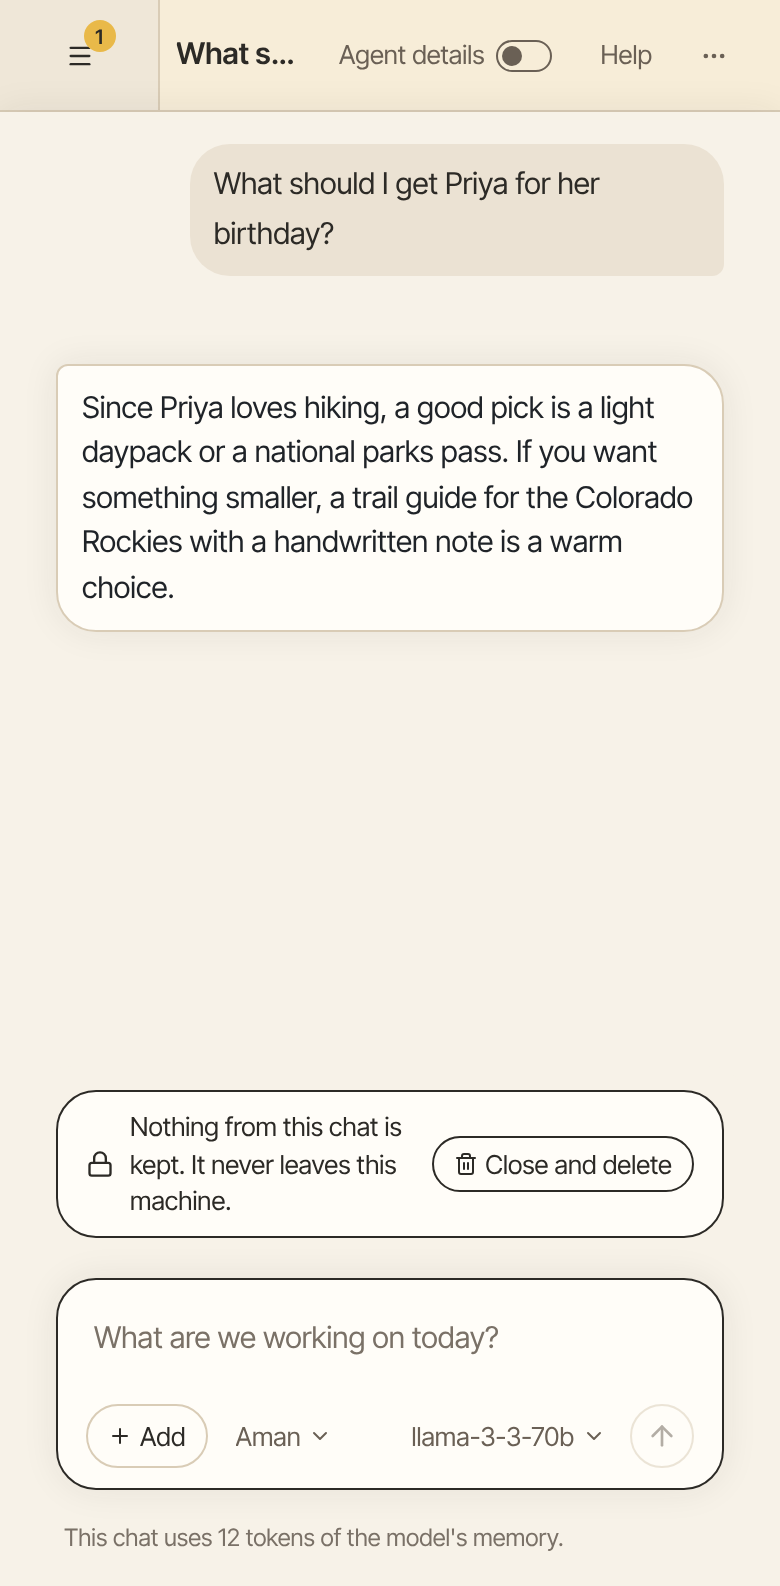
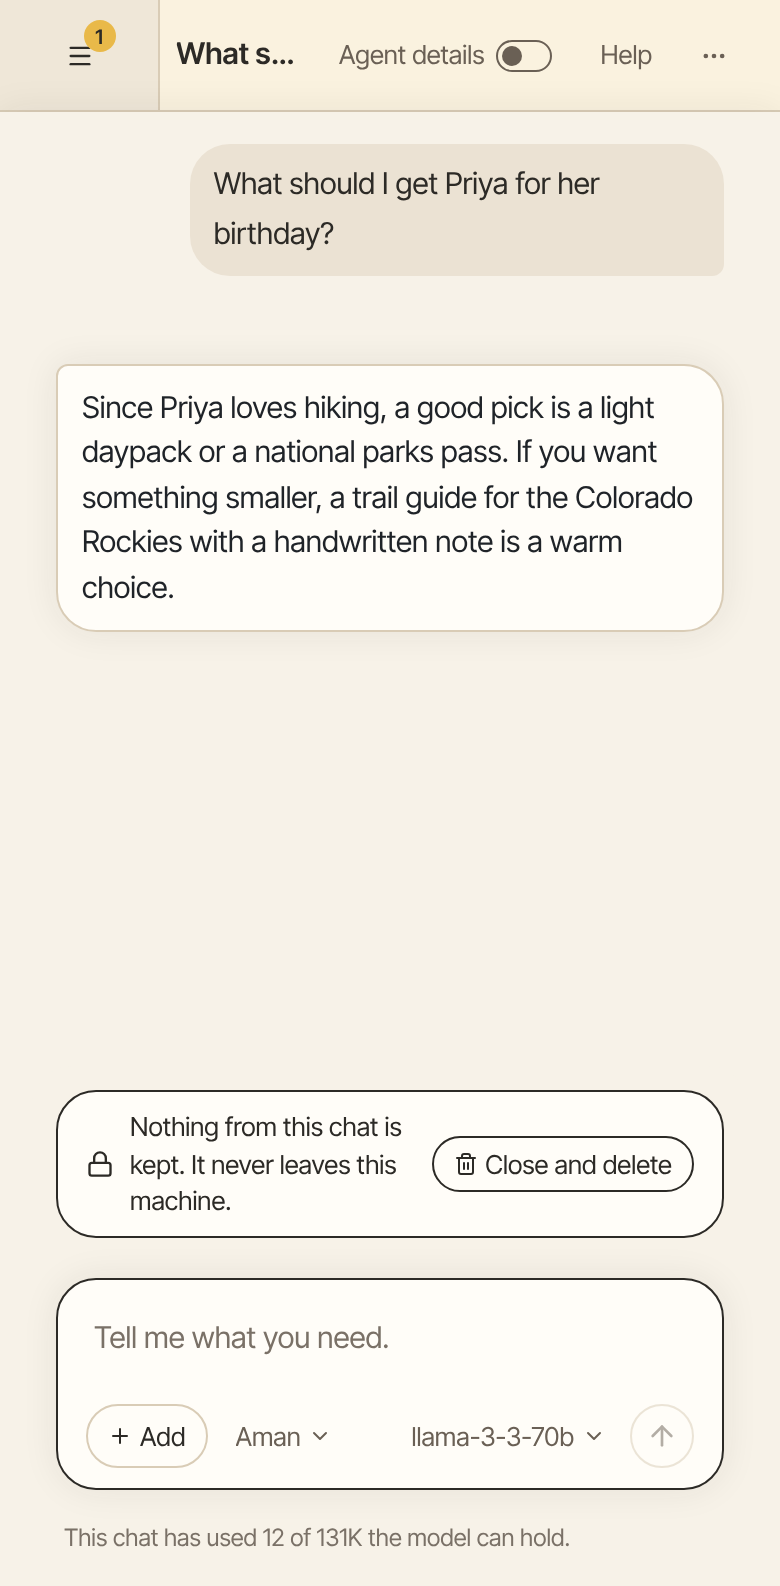
Show how much the model can hold in the chat size line (#1011)
The line under the message box now finds how much the chat's model can hold from the model list, so it reads like "This chat has used 12K of 128K the model can hold." When the limit is unknown, it says "tokens" after the number.

Changed region(s): [[0.2154, 0.9578, 0.7385, 0.9887], [0.1231, 0.8342, 0.6462, 0.8651]]

diff --git a/packages/trueforge/src/personas/amanGuide/knowledgePack.generated.ts b/packages/trueforge/src/personas/amanGuide/knowledgePack.generated.ts
@@ -42,7 +42,7 @@ export const AMAN_GUIDE_TOPICS: readonly AmanGuideTopic[] = [
     id: 'chats',
     title: 'Chats',
     covers: ['route:session', 'route:turn', 'route:chatSearch', 'route:sessionFolder'],
-    body: 'Each conversation with Aman is a chat. Aman keeps your chats in a list, so you can come back to one, search for it or sort it into a folder.\n\nHow to get there: Click **Chats** in the left bar. On a phone, tap the menu button at the top left first.\n\n=== "Computer"\n\n    ![The chat list with folders, next to an open chat](../../../../docs/screenshots/app/chats-list-desktop.png)\n\n=== "Phone"\n\n    ![The chat list with folders, opened from the menu button](../../../../docs/screenshots/app/chats-list-phone.png)\n\n## How a chat looks\n\nYour messages sit on the right in a soft tinted bubble. Aman\'s written replies sit on the left on a paper card. A card that asks you something, such as whether to allow an action, stands on its own so it is easy to spot.\n\nTo copy a reply or hear it read aloud, move the pointer over it and use the small buttons under the card.\n\n## Start a chat\n\n1. Click **New chat** at the top of the chat list.\n2. Type your message in the message box.\n3. Press ++enter++ or click **Send message**, the arrow at the end of the box.\n\nTo start a new line without sending, press ++shift+enter++. To stop an answer part way, click the square button where the arrow was, or press ++esc++.\n\n## The message box\n\nThe row under the message box holds everything you can add to a message:\n\n- **Add** attaches files and pictures, pastes from your clipboard and turns add-ons on or off. See [Files and pictures](files.md).\n- The name beside **Add** says who answers this chat. It shows once you have made a persona. See [Personas](personas.md).\n- **Start incognito chat** shows only on a new chat, before your first message. See [Incognito chat](incognito.md).\n- The model name at the right end says which model answers. See "Pick the model" below.\n- The microphone and the sound-wave button let you talk instead of type. See [Talk to Aman](voice.md).\n\nA small line under the message box says how much room the chat has taken, such as "This chat has used 72K of 128K the model can hold." The numbers count tokens, which are small pieces of words. When the chat fills up, Aman shortens its older messages.\n\n## Pick the model\n\n1. Click the model name at the right end of the message box. Its tip says "Select model".\n2. Type in the search box to find a model, or scroll the list.\n3. Click the model you want.\n\nSome models also show "Reasoning effort" at the bottom of the list. Pick a higher effort for a harder question; the answer takes longer.\n\nThe model name is hidden while Aman is answering. A new chat starts with the model you picked last in this browser. If the list is empty, add a model first. See [Set up Aman](first-steps.md).\n\n## Find a chat\n\nThe newest chats are at the top, under "Today" and "Earlier". Click **Show more** to see older ones. A chat with something new for you, such as a reminder, shows in bold until you open it.\n\nTo search:\n\n1. Click the magnifying glass next to **Chats** at the top of the list. Its tip says "Search chats".\n2. Type a few words.\n3. Chats whose titles match show first. Under "In messages", Aman lists other chats with all your words in their messages.\n4. Click a chat to open it.\n\nSearching inside messages needs past-chat search. To turn it on, click **More** in the left bar, then **Settings**, then **Memory**, and turn on "Let Aman search your past chats when you ask".\n\n## Rename a chat\n\n1. Click the chat\'s title at the top of the open chat.\n2. Type the new title.\n3. Press ++enter++ to save, or ++esc++ to keep the old one.\n\nYou can also point at the chat in the list, click the three dots next to it, then click **Rename**.\n\n## Put chats in folders\n\n1. Click the plus next to "Folders" at the top of the chat list. Its tip says "New folder".\n2. Type a name for the folder.\n3. Click **Create**.\n4. To file a chat, point at it in the list, click the three dots next to it, then click **Move to folder**.\n5. Click the folder.\n\nThe **Move to folder** box can also make a new folder on the spot. To take a chat out of its folder, choose **No folder**.\n\nTo rename or remove a folder, point at it and click its three dots. On a phone the three dots always show. Change the name and click **Rename**, or click **Delete folder**. Deleting a folder keeps every chat that was in it.\n\nOn a computer, the number next to a folder is how many chats are in it.\n\n## Delete a chat\n\n1. Point at the chat in the list and click the three dots next to it.\n2. Click **Delete**.\n3. Click **Delete** again to confirm, or **Keep** to change your mind.\n\n!!! warning\n\n    A deleted chat is gone for good, with every message, picture and file in it. It cannot be brought back.\n\n## Clear a chat\n\nTo start over with the same model and add-ons, click the three dots at the top right of the chat, then **Clear chat**. You get an empty chat. The old one stays in your list.\n\n## Agent details\n\nThe **Agent details** switch at the top of a chat shows or hides how Aman worked on each answer. On a small phone it says "Details".\n\n- On: each answer shows its steps, the tools it used, the helpers it called, and the model and cost.\n- Off: you see your message, the answer, and anything that needs you, such as an approval card. One line says what Aman is doing while it works.\n\nIf a step failed, one plain line under the answer says so, even with the switch off. Aman remembers the choice for each chat. The switch shows once a chat has its first message.\n\n## The panel on the right\n\nOn a computer, a panel on the right shows how Aman is doing, and what is coming up or waiting for you.\n\n- The line under Aman\'s picture says only how Aman is doing: "Ready", "Waiting for you" when a card needs your answer, or that the connection has a problem. When the connection drops, click **Retry**.\n- "Answering" shows the persona that answers this chat, when it is not Aman.\n- On the new chat screen, **Today** lists your calendar for the day and when you are free. **Due** lists today\'s reminders that have not gone off yet. **Needs your OK** lists actions that wait for your answer. Click a reminder or an action to open its chat.\n- In a chat, **From memory** lists what Aman remembered for your last message. Click it to open the list. When your last message used nothing from memory, the row stays and says so. The × takes a memory out of this chat only. **Delete** removes the memory everywhere, after it asks you once. A line from one of your pages names the page, and you change it on that page. **Manage memory** opens your memory settings.\n- **Activity** lists what Aman did in this chat. Click **Audits** to see the full list in Settings.\n- **Rules** says what Aman may do here without asking, such as web searches, and whether Offline mode is on.\n\nClick the arrow at the top of the panel to fold it away, and again to bring it back. On a phone, or in a narrow window, the panel is a strip at the bottom. Open, it shows Aman\'s name and the same lists, such as **Due** and **Needs your OK**. Scroll the strip to see them all. Folded, it shows only Aman\'s picture.\n\nWhen a reminder goes off, it leaves **Due** and shows under the **For you** bell instead.\n\n## See which chats have new answers\n\nIn the list of chats, a dot and a bold title mark a chat with an answer you haven\'t opened yet. Open the chat and the mark goes away.\n\nEach browser keeps its own marks, so reading a chat on your phone doesn\'t clear its mark on your laptop.\n\n## Good to know\n\n- Your chats are kept on your computer. See [Your privacy](privacy.md).\n- An incognito chat is never found by a search, and it cannot go in a folder.\n- You choose these rules in Settings, under **Permissions**. See [Approval cards](approvals.md).\n\n## Related\n\n- [Files and pictures](files.md)\n- [Talk to Aman](voice.md)\n- [Incognito chat](incognito.md)',
+    body: 'Each conversation with Aman is a chat. Aman keeps your chats in a list, so you can come back to one, search for it or sort it into a folder.\n\nHow to get there: Click **Chats** in the left bar. On a phone, tap the menu button at the top left first.\n\n=== "Computer"\n\n    ![The chat list with folders, next to an open chat](../../../../docs/screenshots/app/chats-list-desktop.png)\n\n=== "Phone"\n\n    ![The chat list with folders, opened from the menu button](../../../../docs/screenshots/app/chats-list-phone.png)\n\n## How a chat looks\n\nYour messages sit on the right in a soft tinted bubble. Aman\'s written replies sit on the left on a paper card. A card that asks you something, such as whether to allow an action, stands on its own so it is easy to spot.\n\nTo copy a reply or hear it read aloud, move the pointer over it and use the small buttons under the card.\n\n## Start a chat\n\n1. Click **New chat** at the top of the chat list.\n2. Type your message in the message box.\n3. Press ++enter++ or click **Send message**, the arrow at the end of the box.\n\nTo start a new line without sending, press ++shift+enter++. To stop an answer part way, click the square button where the arrow was, or press ++esc++.\n\n## The message box\n\nThe row under the message box holds everything you can add to a message:\n\n- **Add** attaches files and pictures, pastes from your clipboard and turns add-ons on or off. See [Files and pictures](files.md).\n- The name beside **Add** says who answers this chat. It shows once you have made a persona. See [Personas](personas.md).\n- **Start incognito chat** shows only on a new chat, before your first message. See [Incognito chat](incognito.md).\n- The model name at the right end says which model answers. See "Pick the model" below.\n- The microphone and the sound-wave button let you talk instead of type. See [Talk to Aman](voice.md).\n\nA small line under the message box says how much room the chat has taken, such as "This chat has used 72K of 128K the model can hold." The numbers count tokens, which are small pieces of words. If Aman does not know how much the model can hold, the line gives the size alone, such as "This chat has used 4K tokens so far." When the chat fills up, Aman shortens its older messages.\n\n## Pick the model\n\n1. Click the model name at the right end of the message box. Its tip says "Select model".\n2. Type in the search box to find a model, or scroll the list.\n3. Click the model you want.\n\nSome models also show "Reasoning effort" at the bottom of the list. Pick a higher effort for a harder question; the answer takes longer.\n\nThe model name is hidden while Aman is answering. A new chat starts with the model you picked last in this browser. If the list is empty, add a model first. See [Set up Aman](first-steps.md).\n\n## Find a chat\n\nThe newest chats are at the top, under "Today" and "Earlier". Click **Show more** to see older ones. A chat with something new for you, such as a reminder, shows in bold until you open it.\n\nTo search:\n\n1. Click the magnifying glass next to **Chats** at the top of the list. Its tip says "Search chats".\n2. Type a few words.\n3. Chats whose titles match show first. Under "In messages", Aman lists other chats with all your words in their messages.\n4. Click a chat to open it.\n\nSearching inside messages needs past-chat search. To turn it on, click **More** in the left bar, then **Settings**, then **Memory**, and turn on "Let Aman search your past chats when you ask".\n\n## Rename a chat\n\n1. Click the chat\'s title at the top of the open chat.\n2. Type the new title.\n3. Press ++enter++ to save, or ++esc++ to keep the old one.\n\nYou can also point at the chat in the list, click the three dots next to it, then click **Rename**.\n\n## Put chats in folders\n\n1. Click the plus next to "Folders" at the top of the chat list. Its tip says "New folder".\n2. Type a name for the folder.\n3. Click **Create**.\n4. To file a chat, point at it in the list, click the three dots next to it, then click **Move to folder**.\n5. Click the folder.\n\nThe **Move to folder** box can also make a new folder on the spot. To take a chat out of its folder, choose **No folder**.\n\nTo rename or remove a folder, point at it and click its three dots. On a phone the three dots always show. Change the name and click **Rename**, or click **Delete folder**. Deleting a folder keeps every chat that was in it.\n\nOn a computer, the number next to a folder is how many chats are in it.\n\n## Delete a chat\n\n1. Point at the chat in the list and click the three dots next to it.\n2. Click **Delete**.\n3. Click **Delete** again to confirm, or **Keep** to change your mind.\n\n!!! warning\n\n    A deleted chat is gone for good, with every message, picture and file in it. It cannot be brought back.\n\n## Clear a chat\n\nTo start over with the same model and add-ons, click the three dots at the top right of the chat, then **Clear chat**. You get an empty chat. The old one stays in your list.\n\n## Agent details\n\nThe **Agent details** switch at the top of a chat shows or hides how Aman worked on each answer. On a small phone it says "Details".\n\n- On: each answer shows its steps, the tools it used, the helpers it called, and the model and cost.\n- Off: you see your message, the answer, and anything that needs you, such as an approval card. One line says what Aman is doing while it works.\n\nIf a step failed, one plain line under the answer says so, even with the switch off. Aman remembers the choice for each chat. The switch shows once a chat has its first message.\n\n## The panel on the right\n\nOn a computer, a panel on the right shows how Aman is doing, and what is coming up or waiting for you.\n\n- The line under Aman\'s picture says only how Aman is doing: "Ready", "Waiting for you" when a card needs your answer, or that the connection has a problem. When the connection drops, click **Retry**.\n- "Answering" shows the persona that answers this chat, when it is not Aman.\n- On the new chat screen, **Today** lists your calendar for the day and when you are free. **Due** lists today\'s reminders that have not gone off yet. **Needs your OK** lists actions that wait for your answer. Click a reminder or an action to open its chat.\n- In a chat, **From memory** lists what Aman remembered for your last message. Click it to open the list. When your last message used nothing from memory, the row stays and says so. The × takes a memory out of this chat only. **Delete** removes the memory everywhere, after it asks you once. A line from one of your pages names the page, and you change it on that page. **Manage memory** opens your memory settings.\n- **Activity** lists what Aman did in this chat. Click **Audits** to see the full list in Settings.\n- **Rules** says what Aman may do here without asking, such as web searches, and whether Offline mode is on.\n\nClick the arrow at the top of the panel to fold it away, and again to bring it back. On a phone, or in a narrow window, the panel is a strip at the bottom. Open, it shows Aman\'s name and the same lists, such as **Due** and **Needs your OK**. Scroll the strip to see them all. Folded, it shows only Aman\'s picture.\n\nWhen a reminder goes off, it leaves **Due** and shows under the **For you** bell instead.\n\n## See which chats have new answers\n\nIn the list of chats, a dot and a bold title mark a chat with an answer you haven\'t opened yet. Open the chat and the mark goes away.\n\nEach browser keeps its own marks, so reading a chat on your phone doesn\'t clear its mark on your laptop.\n\n## Good to know\n\n- Your chats are kept on your computer. See [Your privacy](privacy.md).\n- An incognito chat is never found by a search, and it cannot go in a folder.\n- You choose these rules in Settings, under **Permissions**. See [Approval cards](approvals.md).\n\n## Related\n\n- [Files and pictures](files.md)\n- [Talk to Aman](voice.md)\n- [Incognito chat](incognito.md)',
   },
   {
     id: 'code',

diff --git a/packages/trueforge-ui/src/hooks/useCompactionStatus.ts b/packages/trueforge-ui/src/hooks/useCompactionStatus.ts
@@ -5,6 +5,7 @@ import { useAuiState } from '@assistant-ui/react';
 import { useTrueFoundryAgentSpec } from '@truefoundry/assistant-ui-runtime';
 import { useEffect, useRef, useState } from 'react';
 
+import { useDraftCatalog } from '../atoms/draft/DraftCatalogProvider.js';
 import {
   hasSessionResync,
   type LastCompactionStatus,
@@ -12,32 +13,35 @@ import {
 import { useOptionalServer } from '../server/ServerContext.js';
 
 export type CompactionStatusResult = {
-  /** Model context limit in tokens, when known from the agent spec. */
+  /** Model context limit in tokens, when the model list knows it. */
   contextLimit: number | null;
   /** Input tokens from the session's most recent turn (what the model last saw). */
   liveTokens: number | null;
-  /** Max output tokens reserved by the model, when known from the agent spec. */
+  /** Max output tokens reserved by the model, when the model list knows it. */
   maxOutputTokens: number | null;
   /** Most recent compaction, or null when none has run yet. */
   lastCompaction: LastCompactionStatus | null;
   loading: boolean;
 };
 
-/** Reads numeric model properties from the agent spec, when present. */
-function useModelProperties(): { contextLength: number | null; maxOutputTokens: number | null } {
+/** What the chat's model can hold, read from the model list by the name the chat uses. */
+function useModelProperties({ wanted }: { wanted: boolean }): {
+  contextLength: number | null;
+  maxOutputTokens: number | null;
+} {
   const { agentSpec } = useTrueFoundryAgentSpec();
-  // The agent spec's model ref may carry resolved properties depending on
-  // the server; treat as unknown and narrow.
-  const model: unknown = agentSpec?.model;
-  if (typeof model !== 'object' || model === null) return { contextLength: null, maxOutputTokens: null };
-  const properties: unknown = (model as { properties?: unknown }).properties;
-  if (typeof properties !== 'object' || properties === null) return { contextLength: null, maxOutputTokens: null };
-  const props = properties as Record<string, unknown>;
-  const read = (key: string): number | null => {
-    const value: unknown = props[key];
-    return typeof value === 'number' && value > 0 ? value : null;
+  const { models, ensureLoaded } = useDraftCatalog();
+  // The chat only names its model; the limits live in the model list, which loads on demand.
+  useEffect(() => {
+    if (wanted) ensureLoaded();
+  }, [wanted, ensureLoaded]);
+  const modelName = agentSpec?.model.name;
+  const properties = models.find(model => model.name === modelName)?.properties;
+  const positive = (value: number | undefined): number | null => (value !== undefined && value > 0 ? value : null);
+  return {
+    contextLength: positive(properties?.contextLength),
+    maxOutputTokens: positive(properties?.maxOutputTokens),
   };
-  return { contextLength: read('contextLength'), maxOutputTokens: read('maxOutputTokens') };
 }
 
 /**
@@ -49,9 +53,9 @@ function useModelProperties(): { contextLength: number | null; maxOutputTokens: 
 export function useCompactionStatus(): CompactionStatusResult {
   const sessionId = useAuiState(state => state.threadListItem?.remoteId);
   const server = useOptionalServer();
-  const { contextLength: contextLimit, maxOutputTokens } = useModelProperties();
   const [lastCompaction, setLastCompaction] = useState<LastCompactionStatus | null>(null);
   const [liveTokens, setLiveTokens] = useState<number | null>(null);
+  const { contextLength: contextLimit, maxOutputTokens } = useModelProperties({ wanted: liveTokens !== null });
   const [loading, setLoading] = useState(false);
 
   // A turn ending can trigger a compaction, so refresh then too, not only

diff --git a/packages/trueforge-ui/test/hooks/useCompactionStatus.test.ts b/packages/trueforge-ui/test/hooks/useCompactionStatus.test.ts
@@ -11,7 +11,11 @@ const useThreadIsRunning = vi.fn(() => false);
 let auiState: { threadListItem?: { remoteId?: string } } = {
   threadListItem: { remoteId: 'session-1' },
 };
-const useTrueFoundryAgentSpec = vi.fn(() => ({ agentSpec: null }));
+type SpecStub = { agentSpec: { model: { name: string } } | null };
+const useTrueFoundryAgentSpec = vi.fn((): SpecStub => ({ agentSpec: null }));
+type ModelStub = { name: string; properties: { contextLength?: number; maxOutputTokens?: number } };
+let catalogModels: ModelStub[] = [];
+const ensureLoaded = vi.fn();
 const useOptionalServer = vi.fn((): HarnessChatServerExtensions | null => null);
 
 vi.mock('@assistant-ui/core/react', () => ({
@@ -24,6 +28,10 @@ vi.mock('@assistant-ui/react', () => ({
 
 vi.mock('@truefoundry/assistant-ui-runtime', () => ({
   useTrueFoundryAgentSpec: () => useTrueFoundryAgentSpec(),
+}));
+
+vi.mock('@/atoms/draft/DraftCatalogProvider.js', () => ({
+  useDraftCatalog: () => ({ models: catalogModels, ensureLoaded }),
 }));
 
 vi.mock('@/server/ServerContext.js', () => ({
@@ -51,7 +59,42 @@ describe('useCompactionStatus', () => {
     useThreadIsRunning.mockReturnValue(false);
     auiState = { threadListItem: { remoteId: 'session-1' } };
     useTrueFoundryAgentSpec.mockReturnValue({ agentSpec: null });
+    catalogModels = [];
     useOptionalServer.mockReturnValue(server);
+  });
+
+  it('reads what the model can hold from the model list, by the name the chat uses', async () => {
+    useTrueFoundryAgentSpec.mockReturnValue({ agentSpec: { model: { name: 'demo/small' } } });
+    catalogModels = [
+      { name: 'demo/large', properties: { contextLength: 1_000_000 } },
+      { name: 'demo/small', properties: { contextLength: 131_072, maxOutputTokens: 8_192 } },
+    ];
+    getLastCallInputTokens.mockResolvedValueOnce(12);
+
+    const { result } = renderHook(() => useCompactionStatus());
+
+    await waitFor(() => expect(result.current.liveTokens).toBe(12));
+    expect(ensureLoaded).toHaveBeenCalled();
+    expect(result.current.contextLimit).toBe(131_072);
+    expect(result.current.maxOutputTokens).toBe(8_192);
+  });
+
+  it('leaves the limit unknown when the model list does not say it', async () => {
+    useTrueFoundryAgentSpec.mockReturnValue({ agentSpec: { model: { name: 'demo/small' } } });
+    catalogModels = [{ name: 'demo/small', properties: {} }];
+    getLastCallInputTokens.mockResolvedValueOnce(12);
+
+    const { result } = renderHook(() => useCompactionStatus());
+
+    await waitFor(() => expect(result.current.liveTokens).toBe(12));
+    expect(result.current.contextLimit).toBeNull();
+  });
+
+  it('does not load the model list for a chat with nothing to show yet', async () => {
+    const { result } = renderHook(() => useCompactionStatus());
+
+    await waitFor(() => expect(result.current.loading).toBe(false));
+    expect(ensureLoaded).not.toHaveBeenCalled();
   });
 
   it('fetches the compaction status for the active session', async () => {

diff --git a/packages/trueforge-ui/test/atoms/CompactionStatusLine.test.tsx b/packages/trueforge-ui/test/atoms/CompactionStatusLine.test.tsx
@@ -40,11 +40,18 @@ describe('CompactionStatusLine', () => {
     expect(screen.getByText('This chat has used 900 of 200K the model can hold.')).toBeInTheDocument();
   });
 
-  it('gives the size alone when the model limit is unknown', () => {
+  it('gives the size alone, with its unit, when the model limit is unknown', () => {
     stubStatus({ liveTokens: 4_000 });
     render(<CompactionStatusLine />);
 
-    expect(screen.getByText('This chat has used 4K so far.')).toBeInTheDocument();
+    expect(screen.getByText('This chat has used 4K tokens so far.')).toBeInTheDocument();
+  });
+
+  it('keeps the unit on a very small chat with no known limit', () => {
+    stubStatus({ liveTokens: 12 });
+    render(<CompactionStatusLine />);
+
+    expect(screen.getByText('This chat has used 12 tokens so far.')).toBeInTheDocument();
   });
 
   it('adds when older messages were last shortened', () => {

diff --git a/packages/trueforge-ui/src/atoms/CompactionStatusLine.tsx b/packages/trueforge-ui/src/atoms/CompactionStatusLine.tsx
@@ -19,7 +19,7 @@ export function memoryUseText({
 }): string | null {
   if (liveTokens == null) return null;
   if (contextLimit == null || contextLimit <= 0) {
-    return `This chat has used ${formatTokenCount(liveTokens)} so far.`;
+    return `This chat has used ${formatTokenCount(liveTokens)} tokens so far.`;
   }
   return `This chat has used ${formatTokenCount(liveTokens)} of ${formatTokenCount(contextLimit)} the model can hold.`;
 }

diff --git a/packages/trueforge/guide/topics/chats.md b/packages/trueforge/guide/topics/chats.md
@@ -40,7 +40,7 @@ The row under the message box holds everything you can add to a message:
 - The model name at the right end says which model answers. See "Pick the model" below.
 - The microphone and the sound-wave button let you talk instead of type. See [Talk to Aman](voice.md).
 
-A small line under the message box says how much room the chat has taken, such as "This chat has used 72K of 128K the model can hold." The numbers count tokens, which are small pieces of words. When the chat fills up, Aman shortens its older messages.
+A small line under the message box says how much room the chat has taken, such as "This chat has used 72K of 128K the model can hold." The numbers count tokens, which are small pieces of words. If Aman does not know how much the model can hold, the line gives the size alone, such as "This chat has used 4K tokens so far." When the chat fills up, Aman shortens its older messages.
 
 ## Pick the model
 
